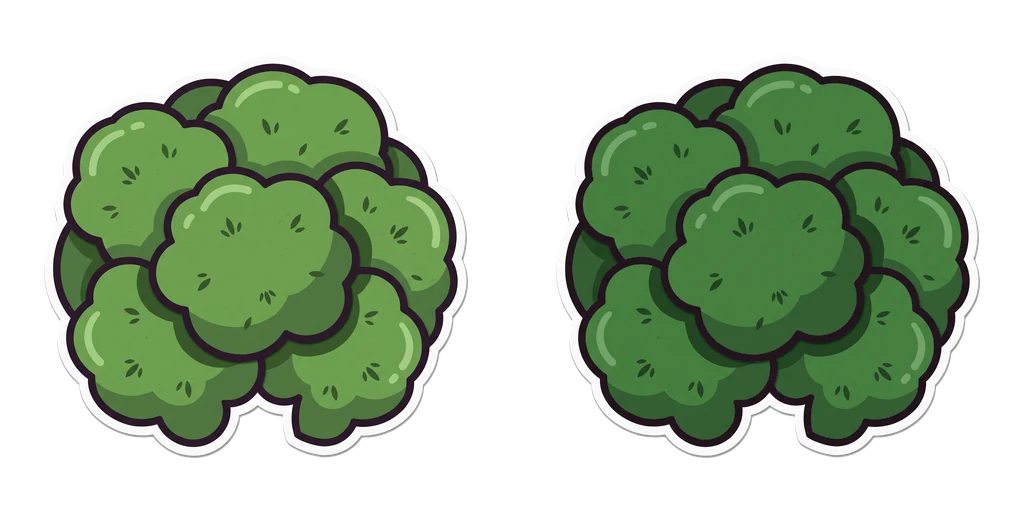
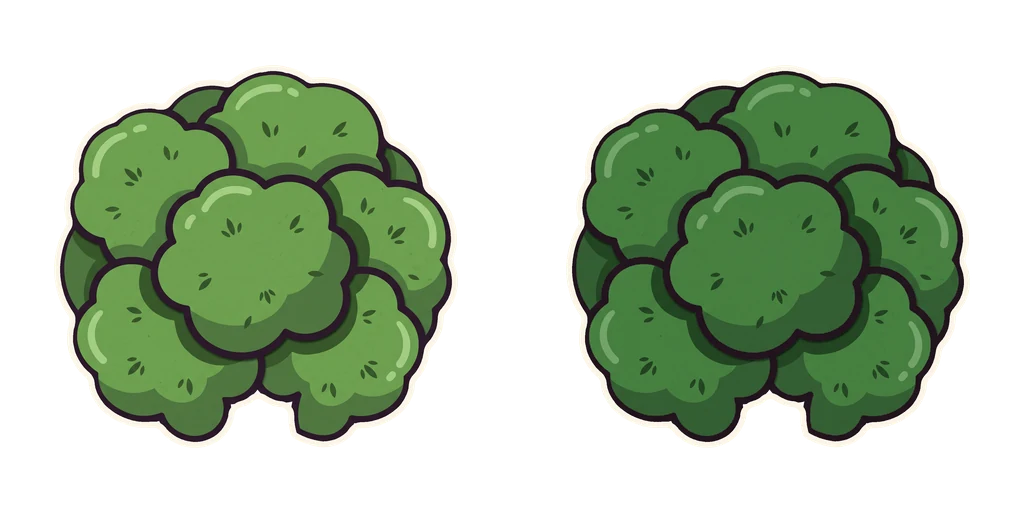
Match outline and border weight across all painted art
Painted assets were scaled by different amounts, so their ink outlines and
paper borders came out anywhere from 0.02 to 0.08 of a tile thick (the
crown twice the trunk). tools/art/build.py now rebuilds every asset from
the renders and redraws outline and border at 0.05 / 0.06 of a tile, the
weight of the code-drawn art. Player parts carry ink only and the game
adds one border round the whole figure, so no cream shows at the joints.
STYLE.md records the weights; the CLAUDE.md rule is about quality, with
code-drawn art fine when it meets the bar.

Claude-Session: https://claude.ai/code/session_011STHFHW1H3N9pF5E9tv6GM

diff --git a/index.html b/index.html
@@ -1116,16 +1116,20 @@ function playerSheet(){const eq={};const a=player.armor;if(a[0])eq.helm=ITEMS[a[
 const PAINT={};
 // player_parts.webp: side-view head, torso, arm, leg and helmet, posed with the same POSES angles as drawHuman; [x,y,w,h,pivotX,pivotY] in the image
 // player_parts_mask.webp marks what armour recolours (tunic, trousers and boots, helmet metal). Frames are 2x the 96x144 code frames.
-const RIG={head:[0,0,95,94,46.2,86.8],torso:[97,0,88,85,55.7,9.4],arm:[187,0,30,77,13.3,6.3],leg:[219,0,35,90,15.7,7.8],helm:[256,0,60,68,0,0]};
+const RIG={head:[0,0,108,107,52.8,93.4],torso:[110,0,101,98,62.3,16.0],arm:[213,0,43,91,19.9,12.9],leg:[258,0,49,103,22.3,14.4],helm:[309,0,73,81,6.6,6.6]};
 function paintedPlayer(eq){const P=PAINT.player,c=mk(192*9,288),g=c.getContext('2d');
   const piece=(k,col,dark)=>{const[x,y,w,h]=RIG[k],p=mk(w,h),q=p.getContext('2d');q.drawImage(P.img,x,y,w,h,0,0,w,h);
     if(col){const t=mk(w,h),u=t.getContext('2d');u.drawImage(P.mask,x,y,w,h,0,0,w,h);u.globalCompositeOperation='source-in';u.fillStyle=col;u.fillRect(0,0,w,h);q.globalCompositeOperation='color';q.drawImage(t,0,0);}
     if(dark){q.globalCompositeOperation='source-atop';q.fillStyle='rgba(42,33,48,.28)';q.fillRect(0,0,w,h);}return p;};
   const head=piece('head'),torso=piece('torso',eq.mail),armA=piece('arm',eq.mail),armB=piece('arm',eq.mail,1),legA=piece('leg',eq.greaves),legB=piece('leg',eq.greaves,1),helm=eq.helm&&piece('helm',eq.helm);
-  const put=(p,k,x,y,a)=>{g.save();g.translate(x,y);g.rotate(a||0);g.drawImage(p,-RIG[k][4],-RIG[k][5]);g.restore();};
-  for(let f=0;f<9;f++){const o=POSES[f];g.save();g.beginPath();g.rect(f*192,0,192,288);g.clip();g.translate(f*192,(o.bob||0)*2);
-    put(legB,'leg',89,194,o.legB);put(armB,'arm',90,159,o.armB);put(torso,'torso',93,137);put(legA,'leg',103,194,o.legA);put(head,'head',93,140);
-    if(helm)g.drawImage(helm,57,48,82,90);put(armA,'arm',98,159,o.armA);g.restore();}
+  const put=(t,p,k,x,y,a)=>{t.save();t.translate(x,y);t.rotate(a||0);t.drawImage(p,-RIG[k][4],-RIG[k][5]);t.restore();};
+  const fr=mk(192,288),h=fr.getContext('2d'),sil=mk(192,288),s=sil.getContext('2d');
+  for(let f=0;f<9;f++){const o=POSES[f];h.clearRect(0,0,192,288);g.save();g.translate(f*192,0);g.beginPath();g.rect(0,0,192,288);g.clip();
+    h.save();h.translate(0,(o.bob||0)*2);put(h,legB,'leg',89,194,o.legB);put(h,armB,'arm',90,159,o.armB);put(h,torso,'torso',93,137);put(h,legA,'leg',103,194,o.legA);put(h,head,'head',93,140);
+    if(helm)h.drawImage(helm,48,39,99,107);put(h,armA,'arm',98,159,o.armA);h.restore();
+    // one cream border round the whole figure (parts only carry ink), like makeSheet
+    s.clearRect(0,0,192,288);s.globalCompositeOperation='source-over';s.drawImage(fr,0,0);s.globalCompositeOperation='source-in';s.fillStyle='#fbf5e6';s.fillRect(0,0,192,288);
+    for(let i=0;i<16;i++){const a=i/16*Math.PI*2;g.drawImage(sil,Math.cos(a)*7,Math.sin(a)*7);}g.drawImage(fr,0,0);g.restore();}
   return c;}
 const SHEETS={};
 function slimeDraw(col,crown){return(t,f,w,h)=>{const cx=w/2,by=h-7,sq=f?1:0;const sw=w*.78*(1+sq*.16),sh_=h*.66*(1-sq*.22);

diff --git a/tools/art/build.py b/tools/art/build.py
@@ -1,0 +1,133 @@
+# Builds the painted assets in assets/ from the Higgsfield renders (see CLAUDE.md, "Art: painted vs code-drawn").
+#   python3 tools/art/build.py <renders dir>      (run from the repo root; needs Pillow, numpy, scipy)
+# The renders dir holds the source PNGs from the Higgsfield project "The Folded Frontier art", named as in RENDERS.
+# Every asset goes through restyle(), which redraws the ink outline and cream border at the house thickness from STYLE.md,
+# measured in tiles as the art appears in game, so art scaled by different amounts still matches.
+import sys, os, math, numpy as np
+from PIL import Image
+from scipy import ndimage
+
+RENDERS = {'tree': 'tree.png', 'fox': 'fox.png', 'fox2': 'fox2.png', 'trunk': 'trunk.png', 'parts': 'parts.png'}
+INK, CREAM = (0x2a, 0x21, 0x30), (0xfb, 0xf5, 0xe6)
+INK_W, BORDER_W = .05, .06  # in tiles, as seen in game (STYLE.md)
+
+def cut(im, tol=16):
+    """Remove the flat background (flood fill from the edges) and trim."""
+    a = np.asarray(im.convert('RGB')).astype(int)
+    bg = np.median(np.concatenate([a[0], a[-1], a[:, 0], a[:, -1]]), axis=0)
+    d = np.abs(a - bg).max(axis=2); lab, _ = ndimage.label(d < tol)
+    ids = set(np.unique(np.concatenate([lab[0], lab[-1], lab[:, 0], lab[:, -1]]))) - {0}
+    m = ndimage.binary_dilation(np.isin(lab, list(ids)), iterations=2) & (d < tol * 2.5)
+    out = Image.fromarray(np.dstack([a.astype(np.uint8), np.where(m, 0, 255).astype(np.uint8)]), 'RGBA')
+    return out.crop(out.getbbox())
+
+def restyle(im, ppt, border=True):
+    """Replace the render's own outline and border with ones of the house thickness. ppt = image pixels per tile in game.
+    border=False leaves the cream border off (player parts: the game adds one around the whole figure).
+    Returns the new image and the offset (padding) added on each side."""
+    kt, bt = INK_W * ppt, (BORDER_W * ppt if border else 0); pad = math.ceil(kt + bt) + 4
+    a = np.asarray(im.convert('RGBA')).astype(float); a = np.pad(a, ((pad, pad), (pad, pad), (0, 0)))
+    solid = a[..., 3] > 127; din = ndimage.distance_transform_edt(solid)
+    rgb = a[..., :3]; mx, mn = rgb.max(axis=2), rgb.min(axis=2)
+    # thickness of the render's border, then its ink: the distance in from the edge where under half the pixels still match
+    ring = np.rint(din).astype(int); light = solid & (mn > 200); dark = solid & (mx < 90)
+    def width(cls, start):  # skips the anti-aliased fringe: waits for the class to reach half, then for it to fall below
+        seen = False
+        for d in range(start + 1, int(.25 * ppt)):
+            sel = ring == d
+            if not sel.any(): continue
+            r = cls[sel].mean()
+            if r >= .5: seen = True
+            elif seen: return d - 1
+        return start
+    B = width(light, 0); K = width(dark, B) - B
+    core = din > B + max(0, K - kt)
+    dout = ndimage.distance_transform_edt(~core)
+    add = max(0., kt - K)  # extra ink ring when the render's ink is thinner than the standard
+    out = np.zeros_like(a)
+    out[core] = a[core]; out[core, 3] = 255
+    ring = ~core
+    ink_t = np.clip(add + .5 - dout, 0, 1)  # 1 inside the new ink ring, ramps to 0 over a pixel
+    col = np.array(INK, float) * ink_t[..., None] + np.array(CREAM, float) * (1 - ink_t[..., None])
+    alpha = np.clip(add + bt + .5 - dout, 0, 1) * 255
+    out[ring, :3] = col[ring]; out[ring, 3] = alpha[ring]
+    return Image.fromarray(out.astype(np.uint8), 'RGBA'), pad
+
+def fit(im, w, h):
+    s = min(w / im.width, h / im.height); return im.resize((round(im.width * s), round(im.height * s)), Image.LANCZOS), s
+
+def trees(src):
+    """trees.webp: bright and dark canopy, 512x512 each (2x of the 256 atlas region, drawn 5 tiles wide)."""
+    c = cut(src['tree']); s0 = 424 / max(c.size); ppt = 512 / 5 / s0
+    c, _ = restyle(c, ppt); c, _ = fit(c, 440, 440)
+    def dark(im):
+        a = np.asarray(im).copy(); hsv = np.asarray(im.convert('RGB').convert('HSV')).astype(float); sat = hsv[..., 1] > 60
+        hsv[..., 0] = np.where(sat, (hsv[..., 0] + 12) % 256, hsv[..., 0]); hsv[..., 2] = np.where(sat, hsv[..., 2] * .8, hsv[..., 2])
+        a[..., :3] = np.asarray(Image.fromarray(hsv.astype(np.uint8), 'HSV').convert('RGB')); return Image.fromarray(a, 'RGBA')
+    out = Image.new('RGBA', (1024, 512), (0, 0, 0, 0))
+    for i, im in enumerate([c, dark(c)]): out.alpha_composite(im, (i * 512 + 256 - im.width // 2, 256 - im.height // 2))
+    out.save('assets/trees.webp', quality=88, method=6)
+
+def fox(src):
+    """foldfox.webp: 2 frames of 256x192 (2x of EN.foldfox 128x96; 60 px per tile at 1x)."""
+    a, b = cut(src['fox']), cut(src['fox2']); s = min(248 / a.width, 176 / a.height); ppt = 120 / s
+    out = Image.new('RGBA', (512, 192), (0, 0, 0, 0))
+    for i, c in enumerate([a, b]):
+        c, pad = restyle(c, ppt); r = c.resize((round(c.width * s), round(c.height * s)), Image.LANCZOS)
+        if r.width > 254: r, _ = fit(r, 254, 190)
+        out.alpha_composite(r, (i * 256 + 128 - r.width // 2, 190 - r.height))
+    out.save('assets/foldfox.webp', quality=90, method=6)
+
+def trunk(src):
+    """trunk.webp: seamless bark tile then root base, 256x128 each (2x of the 128x64 atlas pieces, drawn 2 tiles wide)."""
+    c = cut(src['trunk']); s = 226 / c.width; ppt = 128 / s
+    c, pad = restyle(c, ppt); a = np.asarray(c).astype(float); h, w = a.shape[:2]
+    T = round(128 / s); O = 140; cols = np.where(a[pad + 1200, :, 3] > 0)[0]; cx = (cols[0] + cols[-1]) / 2
+    mid = a[pad + 920:pad + 920 + T + O].copy(); t = np.linspace(0, 1, O)[:, None, None]
+    mid[:O] = mid[T:T + O] * (1 - t) + mid[:O] * t; mid = mid[:T]
+    base = a[h - pad - T:h - pad]
+    out = Image.new('RGBA', (256, 256), (0, 0, 0, 0))
+    for i, p in enumerate([mid, base]):
+        im = Image.fromarray(np.clip(p, 0, 255).astype(np.uint8), 'RGBA').resize((round(w * s), 128), Image.LANCZOS)
+        out.alpha_composite(im, (round(128 - cx * s), i * 128))
+    out.save('assets/trunk.webp', quality=90, method=6)
+
+# player parts: component labels in parts.png and joint points in its source pixels (neck base, neck top, shoulder, hip)
+PART_IDS = {'head': 1, 'torso': 6, 'arm': 9, 'leg': 10, 'helm': 8}
+PART_PIV = {'head': (330, 620), 'torso': (398, 67), 'arm': (95, 45), 'leg': (112, 56), 'helm': (0, 0)}
+PART_S = .14  # source px to 2x frame px (192x288 frames, 120 px per tile)
+
+def parts(src):
+    """player_parts.webp + player_parts_mask.webp; prints the RIG table for index.html."""
+    a = np.asarray(src['parts'].convert('RGB')).astype(int)
+    bg = np.median(np.concatenate([a[0], a[-1], a[:, 0], a[:, -1]]), axis=0)
+    lab, _ = ndimage.label(np.abs(a - bg).max(axis=2) >= 16); objs = ndimage.find_objects(lab)
+    ppt = 120 / PART_S; x = 0; pieces = []; rows = []
+    for k, i in PART_IDS.items():
+        m = ndimage.binary_fill_holes(lab == i); sl = objs[i - 1]
+        im = Image.fromarray(np.dstack([a.astype(np.uint8), (m * 255).astype(np.uint8)])[sl], 'RGBA')
+        tint = tintmask(k, im)
+        im, pad = restyle(im, ppt, border=False); tint = np.pad(tint, pad)
+        w, h = round(im.width * PART_S), round(im.height * PART_S)
+        r = im.resize((w, h), Image.LANCZOS); tm = Image.fromarray((tint * 255).astype(np.uint8)).resize((w, h), Image.LANCZOS)
+        px, py = PART_PIV[k]; pieces.append((r, tm, x))
+        rows.append(f"{k}:[{x},0,{w},{h},{round((px + pad) * PART_S, 1)},{round((py + pad) * PART_S, 1)}]"); x += w + 2
+    W, H = x, max(p[0].height for p in pieces)
+    img = Image.new('RGBA', (W, H), (0, 0, 0, 0)); msk = Image.new('RGBA', (W, H), (0, 0, 0, 0))
+    for r, tm, x in pieces:
+        img.alpha_composite(r, (x, 0)); mm = Image.new('RGBA', r.size, (255, 255, 255, 0)); mm.putalpha(tm); msk.alpha_composite(mm, (x, 0))
+    img.save('assets/player_parts.webp', quality=92, method=6); msk.save('assets/player_parts_mask.webp', lossless=True, method=6)
+    print('RIG={' + ','.join(rows) + '}')
+
+def tintmask(k, im):
+    """What armour recolours: tunic and sleeves (mail), trousers and boots (greaves), helmet metal."""
+    hsv = np.asarray(im.convert('RGB').convert('HSV')).astype(int); H, S, V = hsv[..., 0], hsv[..., 1], hsv[..., 2]; al = np.asarray(im)[..., 3] > 0
+    if k in ('torso', 'arm'): m = (H >= 105) & (H <= 150) & (S >= 35) & (V >= 70)
+    elif k == 'leg': m = ((H >= 200) & (H <= 238) & (S >= 45) & (V >= 40)) | (((H >= 238) | (H <= 20)) & (S >= 80) & (V >= 60) & (V <= 200))
+    elif k == 'helm': m = (S < 40) & (V >= 90) & (V <= 235)
+    else: m = np.zeros_like(al)
+    return m & al
+
+if __name__ == '__main__':
+    d = sys.argv[1]; src = {k: Image.open(os.path.join(d, f)) for k, f in RENDERS.items()}
+    trees(src); fox(src); trunk(src); parts(src)

diff --git a/CLAUDE.md b/CLAUDE.md
@@ -94,7 +94,7 @@ Browser-only saves are why the game will be self-hosted with server-side saves (
 
 The game is moving characters, creatures and objects from code-drawn art to painted art (generated with Higgsfield, style in `STYLE.md`), tracked in issue #48. Procedural art stays where it works well: terrain blocks and walls, particles, background hills. Every piece of art is drawn in code first; painted art is drawn over it once its image loads.
 
-**Rule for new content: every new enemy, boss, NPC, partner, item icon, badge, tree or decoration needs a painted asset.** New terrain blocks, walls and particles stay code-drawn unless the owner decides otherwise. Still write the code-drawn version first: it's the fallback, and it fixes the frame layout the painted file has to match. Then generate the painted version, add it to the table below, and ask the owner before spending credits (see "Generated art"). If credits aren't available, add it to the "still code-drawn" list so it gets painted later.
+**Rule for new content: the bar is top-tier, studio-quality art that follows `STYLE.md`, however it's made.** Code-drawn art is fine when it meets that bar; when it doesn't (characters, creatures, items and decorations usually need painting to get there), the new thing needs a painted asset. Terrain blocks, walls and particles are expected to stay code-drawn. Either way, write the code-drawn version first: it's the fallback, and it fixes the frame layout a painted file has to match. To paint it, generate the art, run it through `tools/art/build.py`, add it to the table below, and ask the owner before spending credits (see "Generated art"). If it can't be painted yet, add it to the "still code-drawn" list.
 
 | Painted (in `assets/`) | File | Replaces |
 |---|---|---|
@@ -123,9 +123,9 @@ The owner has a Higgsfield Pro account connected as an MCP server (`mcp__Higgsfi
 - The Higgsfield project "The Folded Frontier art" holds all the source renders; pass one as a reference image to keep new art consistent with it.
 - Image downloads come from `d8j0ntlcm91z4.cloudfront.net`, which the cloud environment's network policy has to allow. In headless Chromium, three.js from cdnjs can fail through the proxy (`ERR_TOO_MANY_RETRIES`): route it to a local copy with `page.route`.
 - **Getting it in the game:** save under `assets/` as `.webp`. `paintArt(file, fn)` (right after `buildSheets()` at boot) loads an image and, once loaded, draws it over the code-drawn version: into the `SHEETS` canvas (then `SHEETS[k+'T'].needsUpdate=true`) for sprites, or into the atlas (`A`, then `atlasTex.needsUpdate=true`, and add every chunk to `dirty` if the mesh changes) for atlas cells. Match the frame layout the code expects (`STYLE.md` has the sizes); files can be 2x. `paintArt` skips images it can't read back, which is what happens when `index.html` is opened from `file://` (WebGL can't use them there), so that falls back to code art. `PAINT` holds flags and images for painted art that changes how things are drawn.
-- **Player:** `player_parts.webp` has side-view head, torso, arm, leg and helmet pieces; `paintedPlayer()` poses them with the same `POSES` angles as `drawHuman`, with the back arm and leg darkened. `RIG` holds each piece's rect and joint point. `player_parts_mask.webp` marks what armour recolours (tunic and sleeves for mail, trousers and boots for greaves, the helmet metal), using the canvas `color` blend; the helmet piece is only drawn when a helmet is equipped.
+- **Player:** `player_parts.webp` has side-view head, torso, arm, leg and helmet pieces; `paintedPlayer()` poses them with the same `POSES` angles as `drawHuman`, with the back arm and leg darkened, then adds one cream border round each frame. `RIG` holds each piece's rect and joint point. `player_parts_mask.webp` marks what armour recolours (tunic and sleeves for mail, trousers and boots for greaves, the helmet metal), using the canvas `color` blend; the helmet piece is only drawn when a helmet is equipped.
 - **Trees:** the painted trunk is drawn two tiles wide and behind the canopy (`PAINT.trunk` in the chunk mesh builder), from a free 128×192 corner of the atlas at (0, 768): the bark tile twice (the first copy is padding so filtering doesn't bleed other cells in), then the root base. Painted canopies are drawn a size up (5×5 tiles) when `PAINT.canopy` is set; the snowy pine keeps its code size.
-- **Scripts in `tools/art/`** (run from the repo root with the renders downloaded next to them): `cut.py` removes the flat grey background and trims; `parts_cut.py` + `rig.py` build the player parts and mask and print the `RIG` table; `trunk.py` builds the trunk. The coordinates in them fit their particular renders. The fox and canopy files were made with a one-off cut, scale and pack.
+- **`tools/art/build.py <renders dir>`** rebuilds every painted asset from the source renders (download them from the Higgsfield project, named as in its `RENDERS`). It cuts out the background, then `restyle()` redraws the ink outline and cream border at the `STYLE.md` thickness in tiles as seen in game, so art scaled by different amounts still matches; player parts get ink only, and `paintedPlayer()` adds one border round the whole figure. It prints the `RIG` table to paste into `index.html`. Joint points and crop rows in it fit these particular renders; a new render needs its own numbers.
 
 ## Testing
 

diff --git a/STYLE.md b/STYLE.md
@@ -7,8 +7,10 @@ The art style of The Folded Frontier, for anyone making sprites, tiles, icons or
 ## The look
 
 - **Paper cut-outs.** Every object reads as a piece of paper cut out and stuck on: a flat shape with its own border. Characters are made of separate pieces (head, torso, arms, legs), like a paper doll.
-- **Ink outline.** A thick, even, dark plum-black outline, `INK = #2a2130` (never pure black). Inner detail lines (creases, bark grooves, hair strands) are thinner and can be a darker shade of the fill.
-- **Cream sticker border.** Outside the ink, a cream paper border, `#fbf5e6`, all the way round the silhouette. In code, `makeSheet`/`stickerAt` add it (3 to 4 px at 1x). In painted art, it's the white border the renders come with.
+- **Ink outline.** A thick, even, dark plum-black outline, `INK = #2a2130` (never pure black), **0.05 of a tile wide as seen in game** (3 px on a 60 px sprite unit, about 3 px on a 64 px tile). Inner detail lines (creases, bark grooves, hair strands) are thinner and can be a darker shade of the fill.
+- **Cream sticker border.** Outside the ink, a cream paper border, `#fbf5e6`, **0.06 of a tile wide**, all the way round the silhouette. In code, `makeSheet`/`stickerAt` add it. Painted art gets it from `tools/art/build.py`, which replaces whatever border the render came with.
+- **Same weight everywhere.** Line weights are measured in tiles as the art appears in game, not in image pixels, so a big boss and a small icon have the same outline and border. When art is scaled, re-apply the outline at the final size (`build.py` does).
+- **One border per object.** A character made of pieces has ink round every piece but only one cream border, round the whole figure. Pieces overlapping each other show ink, never cream.
 - **Flat soft colour, simple shading.** One base colour per area, a darker shade for folds and the side away from the light, and one lighter highlight stroke on the upper left. No gradients beyond that, no realistic lighting, no cast shadows. The light comes from the upper left.
 - **Rounded and chunky.** Soft rounded shapes, cute chibi proportions (the head is about a third of a character's height), and nothing spindly. Origami creatures (Fold Fox, Great Crane) are the exception: they have crisp folded facets, but keep the same outline, border and palette.
 - **Paper grain.** A light speckle or fibre texture over everything (`grain()` in code). It should be barely visible at game size.
@@ -56,14 +58,14 @@ What has worked so far (see `CLAUDE.md` for the account and credit notes):
 
 - **Model:** Nano Banana Pro (`nano_banana_pro`, 2 credits, 2k). It follows the style and keeps a character consistent across renders. Seedream 4.5 is cheaper but drifted into pixel art for the player.
 - **Consistency:** pass an earlier render as a reference (`medias: [{value: <job id>, role: "image_references"}]`) and say "the exact same ... from the reference image". That's how the Fold Fox's second frame, the trunk and the player parts matched their originals.
-- **Background:** ask for a plain flat light grey background, no shadow, no ground, no text. `tools/art/cut.py` removes it.
+- **Background:** ask for a plain flat light grey background, no shadow, no ground, no text. `tools/art/build.py` removes it.
 - **Characters that animate:** ask for a parts sheet (head, torso, one arm, one leg, plus any gear) in side view, "laid out in a row with generous empty space between them, none touching", and rig the pieces in code, as the player does.
 
 Prompt template (fill in the brackets):
 
 > 2D game [enemy sprite / item icon / tile], full body, strict side view facing right, [pose]. [Subject, with its colours given as hex codes from the palette above]. Papercraft style like Paper Mario: a flat cut-out made of paper with thick dark plum-black ink outlines (#2a2130), a white paper cut-out border around the whole silhouette, subtle paper grain texture, flat soft colors, rounded chunky shapes[, cute chibi proportions]. Plain flat light grey background, no shadow, no ground, no text, centered, whole [subject] visible.
 
-After generating: cut out the background, scale to the frame size (2x is fine), check the silhouette at game size and next to its neighbours in a screenshot, then save as `.webp` (quality around 90, lossless for masks) in `assets/`.
+After generating: add the render to `tools/art/build.py` (it cuts out the background, scales to the frame size at 2x, redraws the outline and border at the house weight, and saves `.webp` in `assets/`), then check it in a game screenshot next to its neighbours at game size.
 
 ## Don'ts
 
